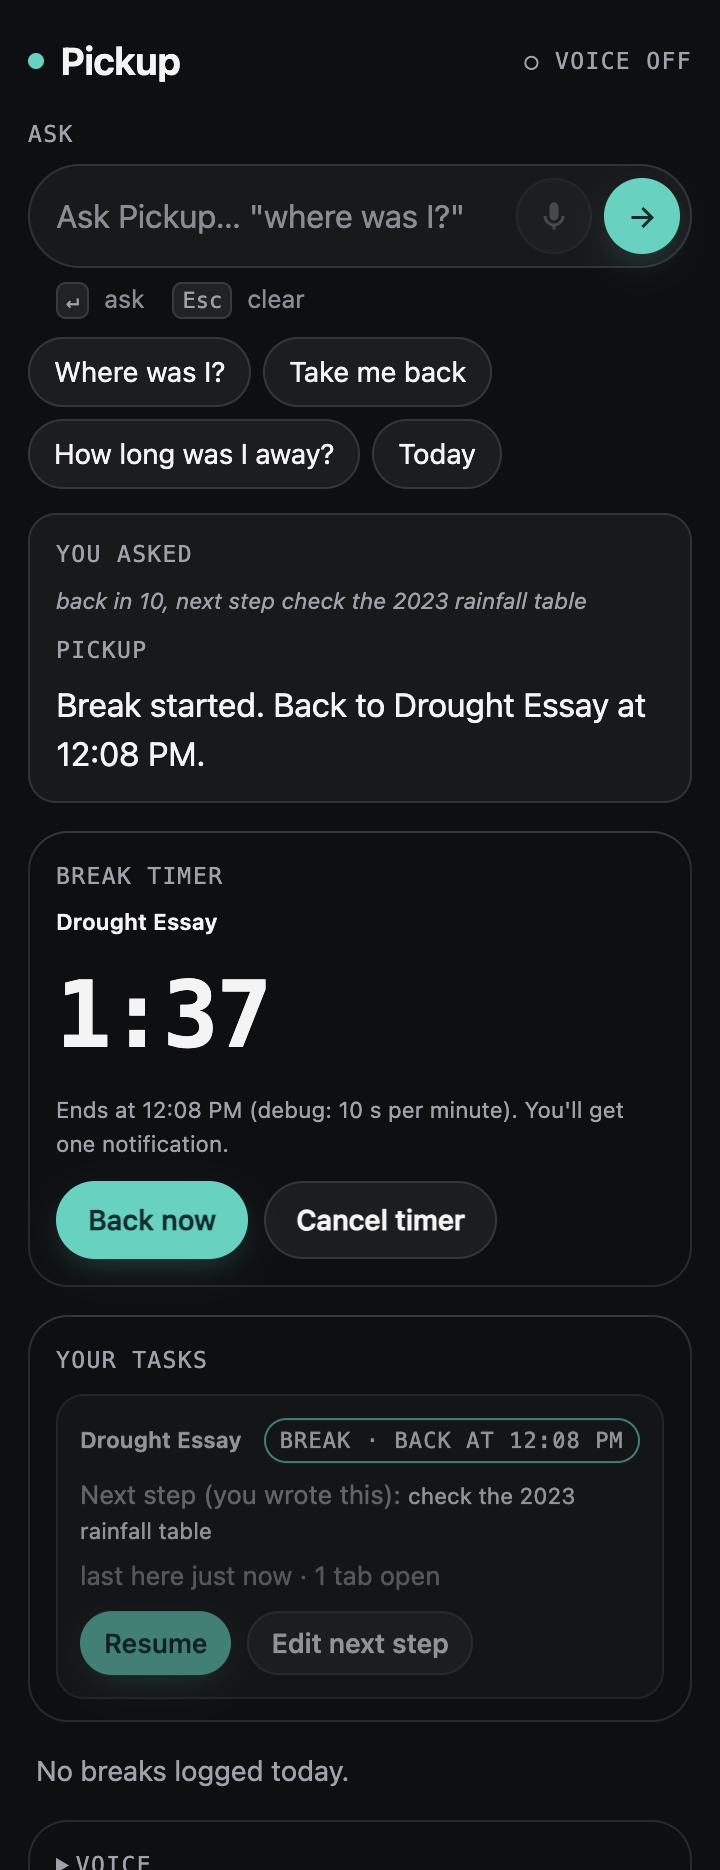
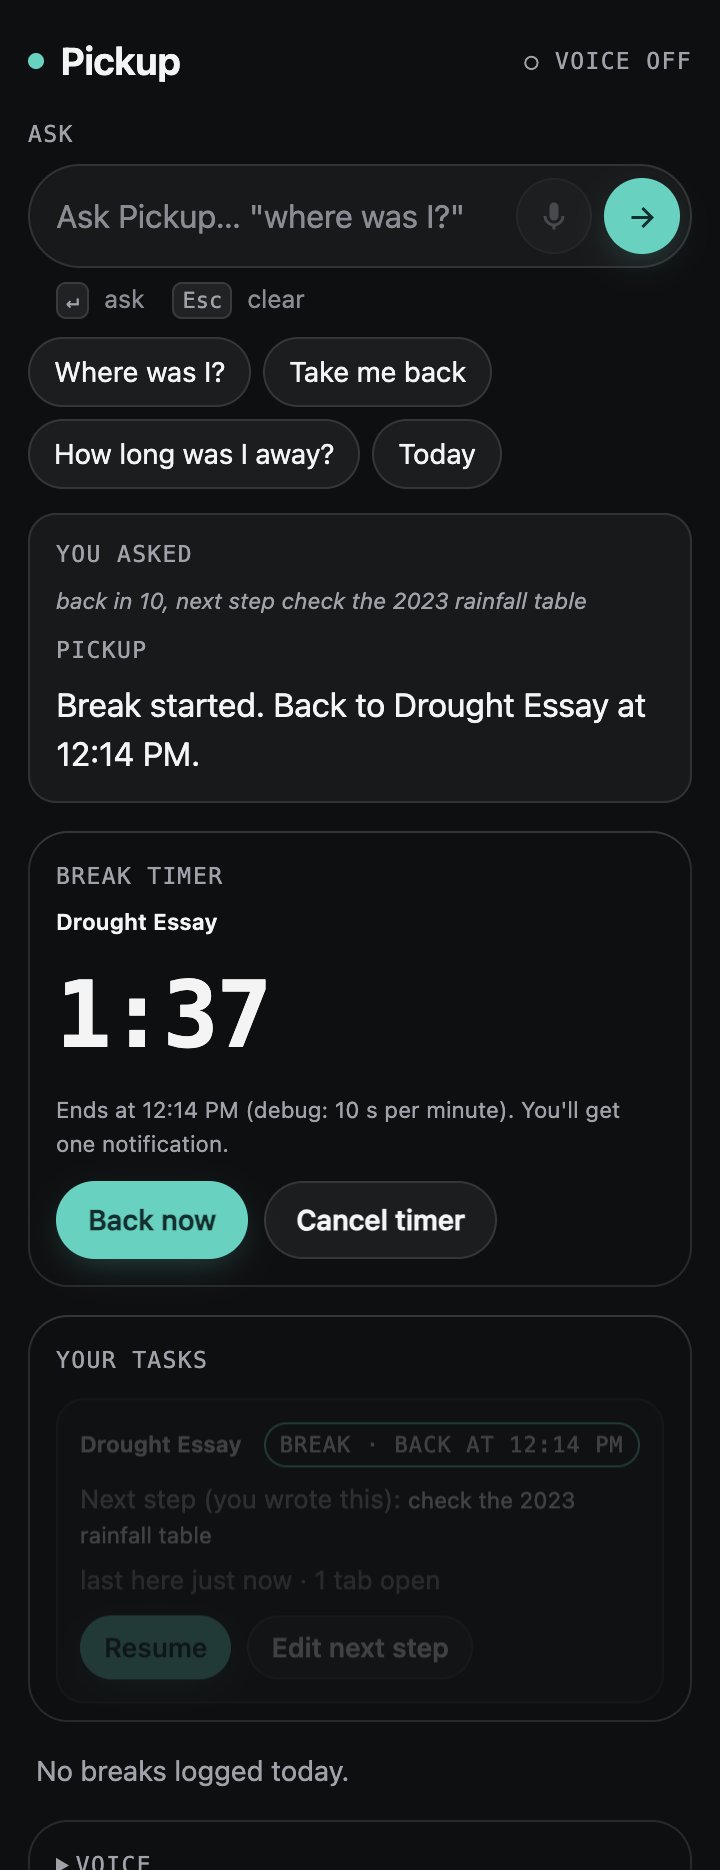
Real-Chrome panel check: 6 pass, 0 fail; panel screenshots in docs-shots/

diff --git a/test/REAL_CHROME_LOG.md b/test/REAL_CHROME_LOG.md
@@ -92,6 +92,23 @@ Driver fixes tonight (not engine bugs): focus by pid (run 8); the frontmost-app 
 
 **Still to verify in real Chrome:** the voice panel with a real microphone (`test/VOICE_SPIKE.md`, 9 manual steps), the manual rows below (Docs, right-click, the real ⌥R key), and Sidd's and Abhinav's code once it lands.
 
+## Pickup panel, 2026-11-20 (Fri, branch `feature/panel`)
+
+`node test/dev/panel-check.mjs`: Chrome for Testing 157.0.8103.78, fresh profile, debug on (a "10 min" break = 100 s). The panel opens in its own small, unfocused popup window at 360x800, so it doesn't count as leaving the task. Screenshots are in `docs-shots/panel-*.png`.
+
+**Final run (run 6, after the review fixes): 6 pass, 0 fail.**
+
+| # | Check | Result | Notes |
+|---|---|---|---|
+| P0 | Setup; opening the panel window opens no break | **PASS** | |
+| P1 | Typed "where was I" | **PASS** | "You were on Drought Essay." (falls back to the last work tab's task, like Alt+R). Task list shows it |
+| P2 | Typed "back in 10, next step …" | **PASS** | Parks the essay with `plannedMin` 10; `breakend:` alarm and no nudge alarm; clock 1:39 and counting down; badge `2m` "Pickup: back to Drought Essay at 12:14 PM" |
+| P3 | Leave for YouTube; break ends; click the notification | **PASS** | One notification (`breakend:<id>`), click via `notifications.onClicked.dispatch` in the worker. Event `returnVia: timer`, `plannedBreakMin: 10`, away 97 s |
+| P4 | Leave; Resume from the task list | **PASS** | Chip "Away 1 min"; event `returnVia: panel` |
+| P5 | Edit next step in the list; Today strip | **PASS** | Saved as typed ("you wrote this"). Today strip: "No breaks logged today.", correct because debug events are left out |
+
+Earlier runs: run 1 never started (the test copy skipped itself, because the `.claude` path filter matched the worktree's own path); runs 2 and 3 found the wrong extension (Chrome for Testing has two built-in extensions with their own workers); run 5 lost P3 and P4 because a second test Chrome, the site screenshots, was running at the same time and took focus. All were driver problems. **Engine bugs found:** none in real Chrome; the code review found the notification-order bugs, fixed with checks first.
+
 ## Engine bugs found in real Chrome
 
 None so far. Every focus loss the engine acted on traces to a real `WINDOW_ID_NONE` in the timeline. With another app frontmost, the engine opened a `focus` break after 1 s and discarded short absences (< 10 s), which is correct.
